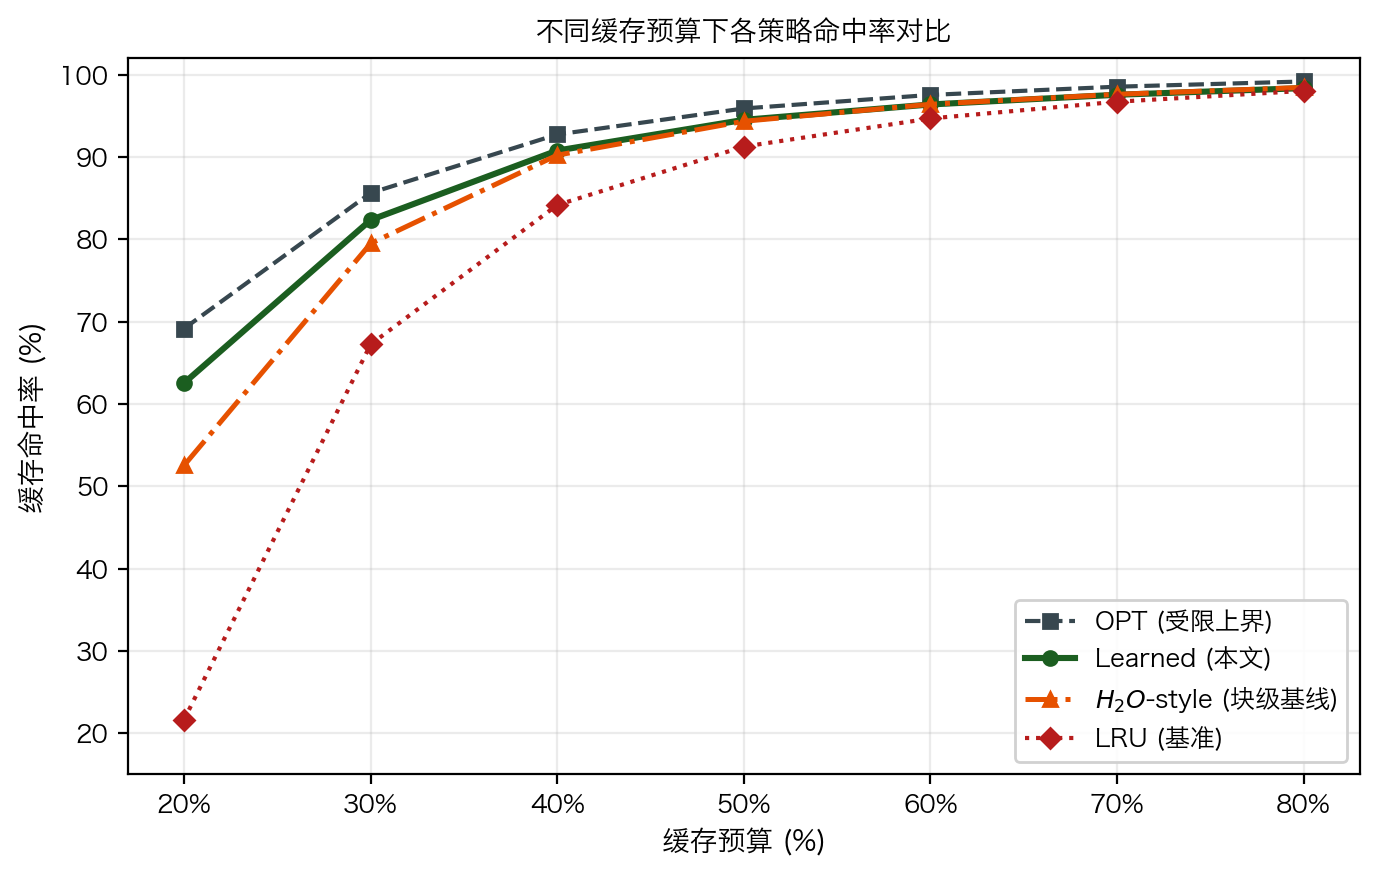
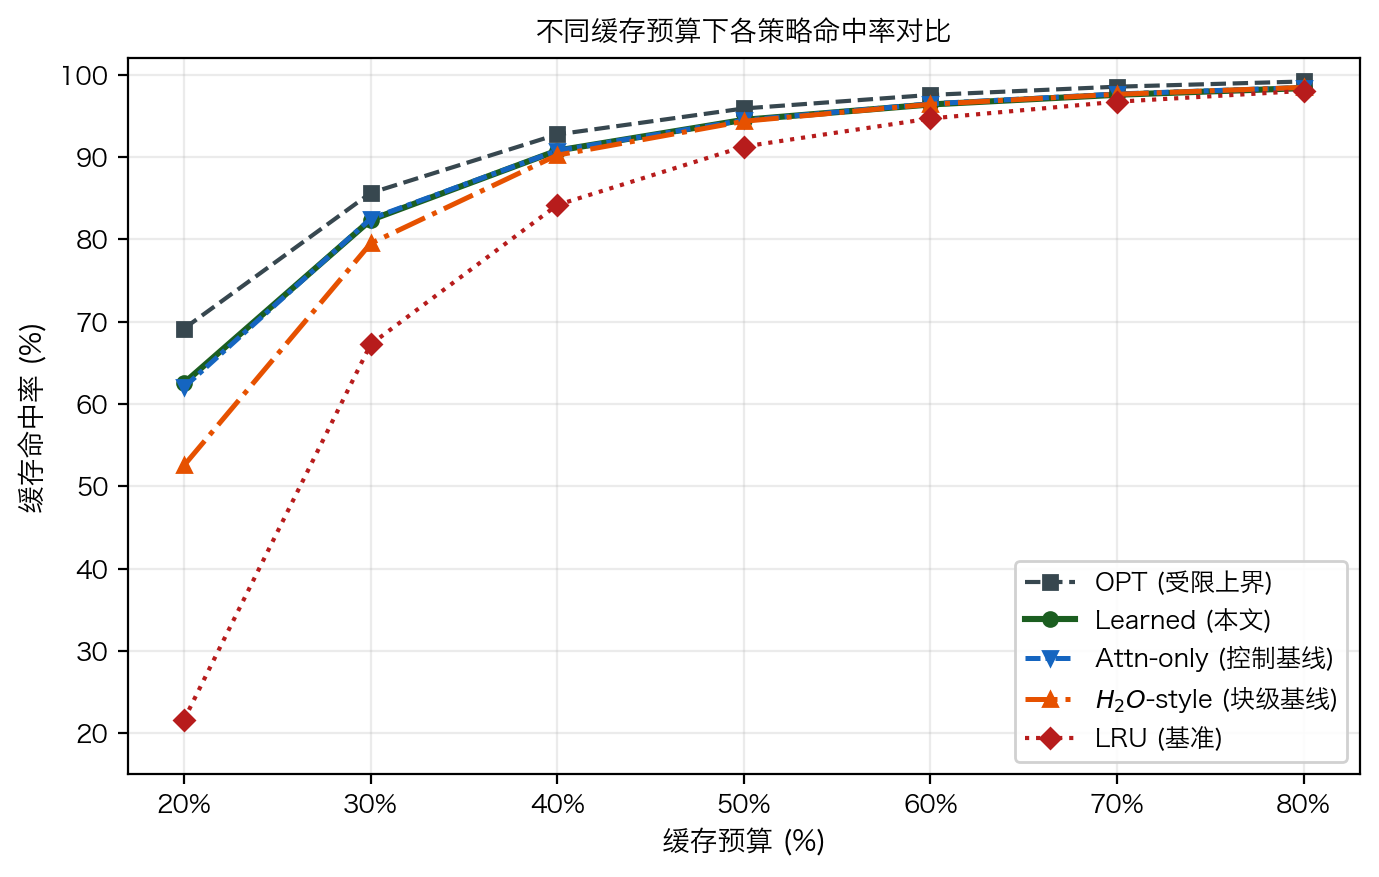
Add attention-only control baseline

diff --git a/kv_cache_sim.py b/kv_cache_sim.py
@@ -225,6 +225,10 @@ def simulate(trace, capacity: int, policy: str, n_blocks: int = 100,
       - 保护 Recent Window：最近 H2O_RECENT_WINDOW 次访问块不驱逐
       - 从剩余候选中驱逐累积注意力分数最低的块
 
+    attn-only 策略：
+      - 不使用 Recent Window，直接驱逐累积注意力分数最低的块
+      - 用于控制 H2O-style 中 Recent Window 保护规则的影响
+
     默认返回 (overall_hit_rate, window_rates)。
     若 return_stats=True，返回包含命中率和简化系统代价估计的 dict。
     """
@@ -272,6 +276,9 @@ def simulate(trace, capacity: int, policy: str, n_blocks: int = 100,
             if not h2o_cands:
                 h2o_cands = candidates
             victim = min(h2o_cands, key=lambda b: cum_attn[b])
+
+        elif policy == 'attn':
+            victim = min(candidates, key=lambda b: cum_attn[b])
 
         elif policy == 'opt':
             victim = max(candidates,
@@ -374,7 +381,7 @@ def run_multi_seed_experiment(n_seeds=5, n_blocks=100, capacity=40,
     使用 n_seeds 组独立种子重复实验，报告各策略命中率均值 ± 标准差。
     每组种子独立控制块重要性分布、训练迹访问模式、测试迹访问模式。
     """
-    policies = ['opt', 'h2o', 'learned', 'lru']
+    policies = ['opt', 'attn', 'h2o', 'learned', 'lru']
     all_hrs = {p: [] for p in policies}
 
     for s in range(n_seeds):
@@ -408,7 +415,7 @@ def run_budget_experiment(test_trace, n_blocks, mlp, scaler, test_rd,
     if budgets is None:
         budgets = [0.20, 0.30, 0.40, 0.50, 0.60, 0.70, 0.80]
 
-    policies = ['opt', 'h2o', 'learned', 'lru']
+    policies = ['opt', 'attn', 'h2o', 'learned', 'lru']
     budget_results = {p: [] for p in policies}
 
     for bgt in budgets:
@@ -428,16 +435,23 @@ def run_budget_experiment(test_trace, n_blocks, mlp, scaler, test_rd,
 # ═══════════════════════════════════════════════════════════════
 
 ABLATION_CONFIGS = {
-    '全部6特征（原版）':           [0, 1, 2, 3, 4, 5],
-    '去除累积注意力+访问频率':      [0, 2, 4, 5],
-    '去除块位置+累积注意力+频率':   [4, 5],
-    '仅访问时效（≈ LRU）':         [4],
-    '仅累积注意力（≈ H2O）':       [1],
+    '全部6特征（原版）':            [0, 1, 2, 3, 4, 5],
+    '去除块位置':                  [1, 2, 3, 4, 5],
+    '去除累积注意力':               [0, 2, 3, 4, 5],
+    '去除对数频次':                [0, 1, 3, 4, 5],
+    '去除访问频率':                [0, 1, 2, 4, 5],
+    '去除访问时效':                [0, 1, 2, 3, 5],
+    '去除上下文占用率':             [0, 1, 2, 3, 4],
+    '仅块位置':                    [0],
+    '仅累积注意力':                 [1],
+    '仅对数频次':                  [2],
+    '仅访问频率':                  [3],
+    '仅访问时效（≈ LRU）':          [4],
 }
 
 
 def run_ablation_experiment(train_trace, test_trace, n_blocks, capacity):
-    """为 5 种特征配置分别训练 MLP 并评测命中率。"""
+    """为多种特征配置分别训练 MLP 并评测命中率。"""
     results = {}
     for name, mask in ABLATION_CONFIGS.items():
         mlp_a, scaler_a = train_mlp(train_trace, n_blocks,
@@ -453,17 +467,19 @@ def run_ablation_experiment(train_trace, test_trace, n_blocks, capacity):
 # ═══════════════════════════════════════════════════════════════
 
 def plot_main_results(results, save_path='kv_cache_sim_results.png'):
-    # 柱状图顺序：OPT → Learned(本文) → H2O → LRU，突出本文方案
-    bar_order   = ['opt', 'learned', 'h2o', 'lru']
-    bar_labels  = ['OPT\n(受限上界)', 'Learned\n(本文)', '$H_2O$-style\n(块级基线)', 'LRU\n(基准)']
-    bar_colors  = ['#37474F', '#1B5E20', '#E65100', '#B71C1C']
+    # 柱状图顺序：OPT → Learned(本文) → Attn-only → H2O → LRU
+    bar_order   = ['opt', 'learned', 'attn', 'h2o', 'lru']
+    bar_labels  = ['OPT\n(受限上界)', 'Learned\n(本文)', 'Attn-only\n(控制基线)',
+                   '$H_2O$-style\n(块级基线)', 'LRU\n(基准)']
+    bar_colors  = ['#37474F', '#1B5E20', '#1565C0', '#E65100', '#B71C1C']
 
     # 折线图配置
-    line_order  = ['opt', 'learned', 'h2o', 'lru']
-    line_labels = ['OPT (受限上界)', 'Learned (本文)', '$H_2O$-style (块级基线)', 'LRU (基准)']
-    line_colors = ['#37474F', '#1B5E20', '#E65100', '#B71C1C']
-    line_styles = ['--', '-', '-.', ':']
-    line_widths = [1.5, 2.2, 1.8, 1.5]
+    line_order  = ['opt', 'learned', 'attn', 'h2o', 'lru']
+    line_labels = ['OPT (受限上界)', 'Learned (本文)', 'Attn-only (控制基线)',
+                   '$H_2O$-style (块级基线)', 'LRU (基准)']
+    line_colors = ['#37474F', '#1B5E20', '#1565C0', '#E65100', '#B71C1C']
+    line_styles = ['--', '-', (0, (3, 1, 1, 1)), '-.', ':']
+    line_widths = [1.5, 2.2, 1.8, 1.8, 1.5]
 
     fig, (ax1, ax2) = plt.subplots(1, 2, figsize=(12, 4.5),
                                     gridspec_kw={'width_ratios': [1, 1.3]})
@@ -505,15 +521,18 @@ def plot_main_results(results, save_path='kv_cache_sim_results.png'):
 
 def plot_budget_results(budget_results, budget_pcts,
                          save_path='kv_cache_budget_results.png'):
-    # 顺序：OPT → Learned(本文) → H2O → LRU
-    order   = ['opt', 'learned', 'h2o', 'lru']
+    # 顺序：OPT → Learned(本文) → Attn-only → H2O → LRU
+    order   = ['opt', 'learned', 'attn', 'h2o', 'lru']
     labels  = {'opt': 'OPT (受限上界)', 'learned': 'Learned (本文)',
+               'attn': 'Attn-only (控制基线)',
                'h2o': '$H_2O$-style (块级基线)', 'lru': 'LRU (基准)'}
     colors  = {'opt': '#37474F', 'learned': '#1B5E20',
+               'attn': '#1565C0',
                'h2o': '#E65100', 'lru': '#B71C1C'}
-    lstyle  = {'opt': '--', 'learned': '-', 'h2o': '-.', 'lru': ':'}
-    markers = {'opt': 's', 'learned': 'o', 'h2o': '^', 'lru': 'D'}
-    lwidths = {'opt': 1.5, 'learned': 2.2, 'h2o': 1.8, 'lru': 1.5}
+    lstyle  = {'opt': '--', 'learned': '-', 'attn': (0, (3, 1, 1, 1)),
+               'h2o': '-.', 'lru': ':'}
+    markers = {'opt': 's', 'learned': 'o', 'attn': 'v', 'h2o': '^', 'lru': 'D'}
+    lwidths = {'opt': 1.5, 'learned': 2.2, 'attn': 1.8, 'h2o': 1.8, 'lru': 1.5}
 
     fig, ax = plt.subplots(figsize=(7, 4.5))
     for p in order:
@@ -539,10 +558,11 @@ def plot_budget_results(budget_results, budget_pcts,
 
 def plot_cost_results(cost_summary, save_path='kv_cache_cost_results.png'):
     """绘制简化系统代价估计图。"""
-    order = ['opt', 'learned', 'h2o', 'lru']
+    order = ['opt', 'learned', 'attn', 'h2o', 'lru']
     labels = ['OPT\n(受限上界)', 'Learned\n(本文)',
+              'Attn-only\n(控制基线)',
               '$H_2O$-style\n(块级基线)', 'LRU\n(基准)']
-    colors = ['#37474F', '#1B5E20', '#E65100', '#B71C1C']
+    colors = ['#37474F', '#1B5E20', '#1565C0', '#E65100', '#B71C1C']
 
     total_ms = [cost_summary[p]['estimated_cost_ms'] for p in order]
     avg_us = [cost_summary[p]['avg_access_cost_us'] for p in order]
@@ -602,10 +622,11 @@ def main():
     mlp, scaler = train_mlp(train_trace, N_BLOCKS)
 
     # ── [3] 主实验：40% 缓存预算 ─────────────────────────────────
-    print("\n[3/6] 主实验：四种策略对比（缓存预算 40%）...")
+    print("\n[3/6] 主实验：五种策略对比（缓存预算 40%）...")
     configs = [
         ('opt',     dict(reuse_dists=test_rd)),
         ('learned', dict(mlp=mlp, scaler=scaler)),
+        ('attn',    dict()),
         ('h2o',     dict()),
         ('lru',     dict()),
     ]
@@ -621,10 +642,12 @@ def main():
 
     lru = results['lru']['hit_rate']     * 100
     h2o = results['h2o']['hit_rate']     * 100
+    att = results['attn']['hit_rate']    * 100
     lrn = results['learned']['hit_rate'] * 100
     opt = results['opt']['hit_rate']     * 100
     print(f"\n  Learned vs LRU : {lrn - lru:+.1f} pp")
     print(f"  Learned vs H2O : {lrn - h2o:+.1f} pp")
+    print(f"  Learned vs Attn: {lrn - att:+.1f} pp")
     print(f"  距受限 OPT 差距: {opt - lrn:.1f} pp")
 
     print("\n  生成主实验图表 ...")
@@ -643,7 +666,7 @@ def main():
 
     print(f"\n  {'策略':<8}  {'swap-in':>8}  {'swap-out':>8}  "
           f"{'估计代价(ms)':>12}  {'平均访问(us)':>12}  {'较LRU下降':>10}")
-    for p in ['opt', 'learned', 'h2o', 'lru']:
+    for p in ['opt', 'learned', 'attn', 'h2o', 'lru']:
         row = cost_summary[p]
         print(f"  {p:<8}  {row['swap_ins']:8d}  {row['swap_outs']:8d}  "
               f"{row['estimated_cost_ms']:12.1f}  "
@@ -656,13 +679,13 @@ def main():
         test_trace, N_BLOCKS, mlp, scaler, test_rd)
     plot_budget_results(budget_results, budget_pcts)
 
-    print(f"\n  {'预算':>4}  {'OPT':>6}  {'H2O':>6}  {'Learned':>8}  "
-          f"{'LRU':>6}  {'Δ(Lrn-LRU)':>11}  {'Δ(Lrn-H2O)':>10}")
+    print(f"\n  {'预算':>4}  {'OPT':>6}  {'Attn':>6}  {'H2O':>6}  {'Learned':>8}  "
+          f"{'LRU':>6}  {'Δ(Lrn-LRU)':>11}  {'Δ(Lrn-H2O)':>10}  {'Δ(Lrn-Attn)':>11}")
     for i, b in enumerate(budget_pcts):
-        o, h, l, r = (budget_results[p][i]
-                      for p in ['opt', 'h2o', 'learned', 'lru'])
-        print(f"  {b:3d}%  {o:6.1f}%  {h:6.1f}%  {l:8.1f}%  {r:6.1f}%  "
-              f"{l - r:+10.1f}  {l - h:+9.1f}")
+        o, a, h, l, r = (budget_results[p][i]
+                         for p in ['opt', 'attn', 'h2o', 'learned', 'lru'])
+        print(f"  {b:3d}%  {o:6.1f}%  {a:6.1f}%  {h:6.1f}%  {l:8.1f}%  {r:6.1f}%  "
+              f"{l - r:+10.1f}  {l - h:+9.1f}  {l - a:+10.1f}")
 
     # ── [6] 特征消融实验 ─────────────────────────────────────────
     print("\n[6/6] 特征消融实验 ...")
@@ -680,7 +703,7 @@ def main():
         n_seeds=5, n_blocks=N_BLOCKS, capacity=CAPACITY,
         train_steps=TRAIN_STEPS, test_steps=TEST_STEPS)
     print(f"\n  {'策略':<10}  {'均值':>6}  {'标准差':>6}")
-    for p in ['opt', 'h2o', 'learned', 'lru']:
+    for p in ['opt', 'attn', 'h2o', 'learned', 'lru']:
         print(f"  {p:<10}  {means[p]:5.1f}%  ±{stds[p]:.1f}%")
 
     print("\n" + "=" * 62)

diff --git a/README.md b/README.md
@@ -2,7 +2,7 @@
 
 This repository contains the simulation code for a course paper on learned KV Cache eviction for large language model inference.
 
-The project evaluates a lightweight MLP-based block eviction policy, referred to as `Learned`, on synthetic sparse block-level KV Cache access traces. It compares the policy with LRU, an H2O-style block-level heuristic, and a Belady OPT upper bound under the same protected-anchor-block constraint.
+The project evaluates a lightweight MLP-based block eviction policy, referred to as `Learned`, on synthetic sparse block-level KV Cache access traces. It compares the policy with LRU, an H2O-style block-level heuristic, an attention-only control baseline, and a Belady OPT upper bound under the same protected-anchor-block constraint.
 
 ## Scope
 
@@ -45,8 +45,11 @@ Expected main result under the default configuration:
 | --- | ---: |
 | OPT (constrained upper bound) | 92.7% |
 | Learned | 90.8% |
+| Attn-only control | 90.8% |
 | H2O-style | 90.2% |
 | LRU | 84.2% |
+
+The Attn-only control evicts the cached block with the lowest cumulative attention score without Recent Window protection. In the default stationary synthetic trace, it matches `Learned`, so the results should not be interpreted as evidence that the MLP policy is stronger than simple cumulative-attention sorting.
 
 The script also includes a simplified system-cost model. This is an estimate, not a hardware measurement. It uses a conservative synchronous-transfer model for swap-in and swap-out cost, and does not model asynchronous prefetch, overlap, or runtime scheduling. The default model assumes:
 
@@ -62,6 +65,7 @@ Under this model, the default run estimates:
 | Policy | Estimated total cost | Average access cost | Cost reduction vs. LRU |
 | --- | ---: | ---: | ---: |
 | OPT (constrained upper bound) | 939.4 ms | 19.28 us | 54.6% |
+| Attn-only control | 1196.7 ms | 24.56 us | 42.1% |
 | Learned | 1200.4 ms | 24.63 us | 41.9% |
 | H2O-style | 1270.4 ms | 26.07 us | 38.5% |
 | LRU | 2067.3 ms | 42.43 us | 0.0% |
